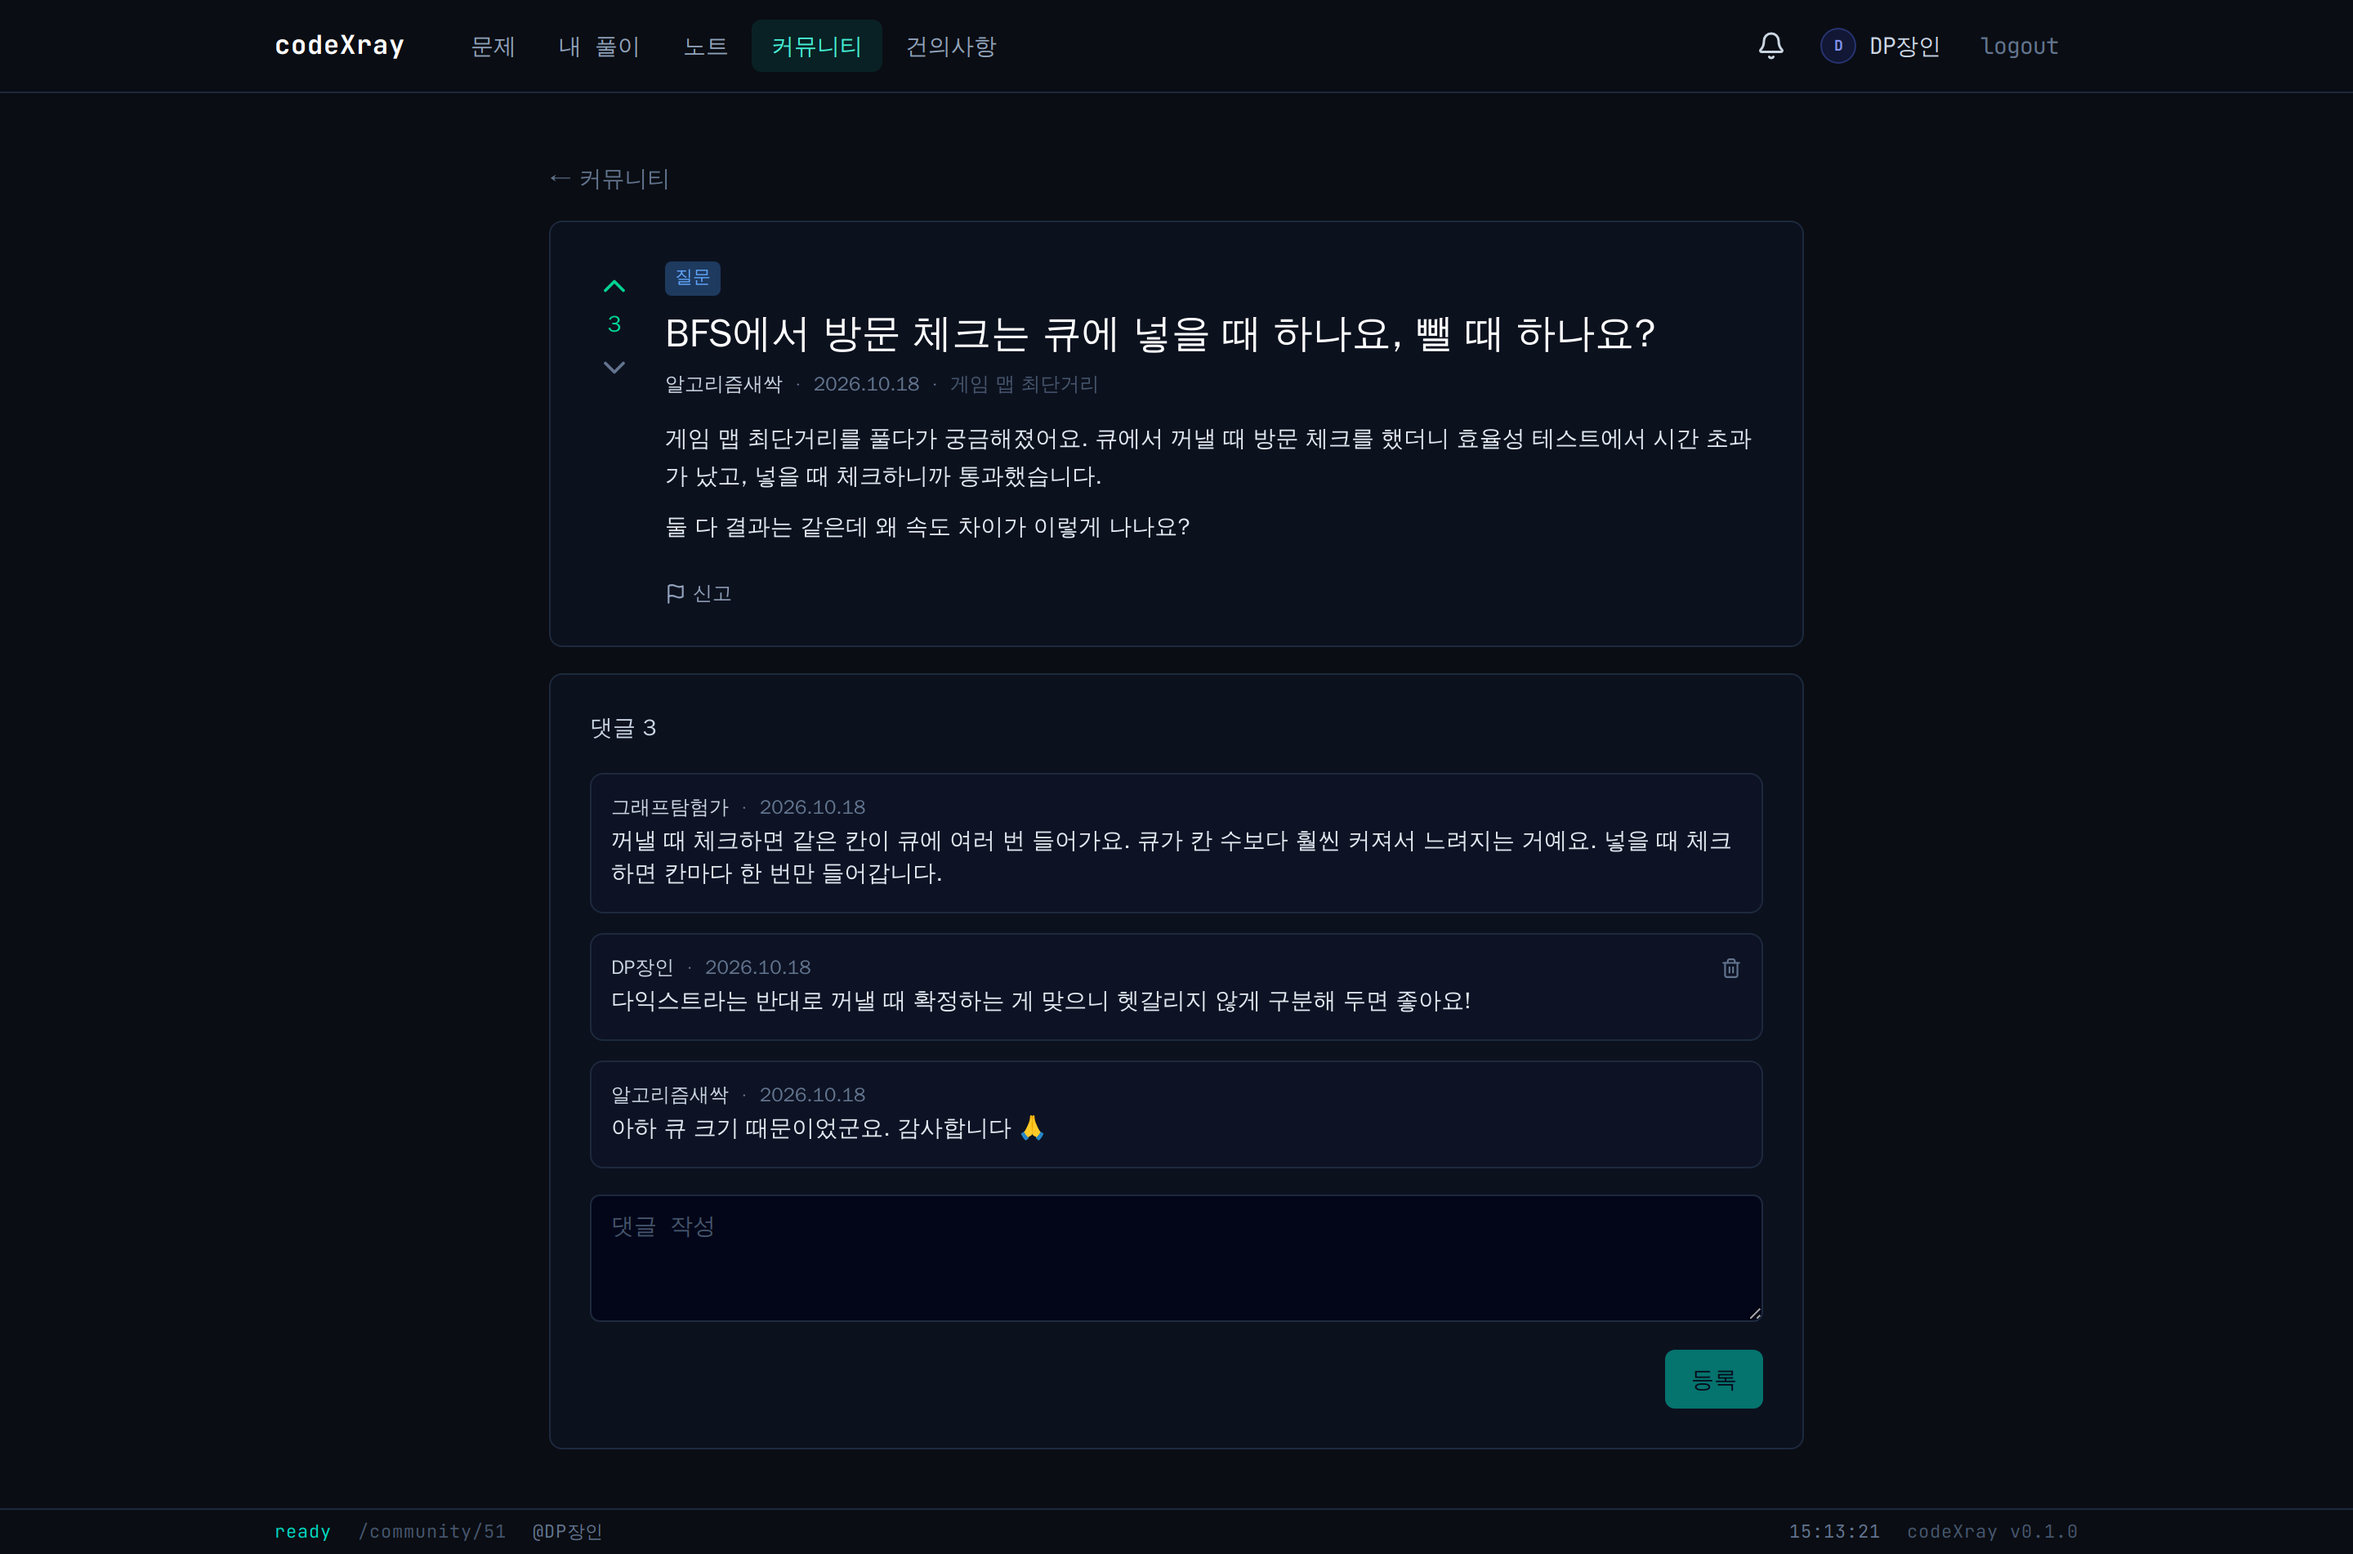
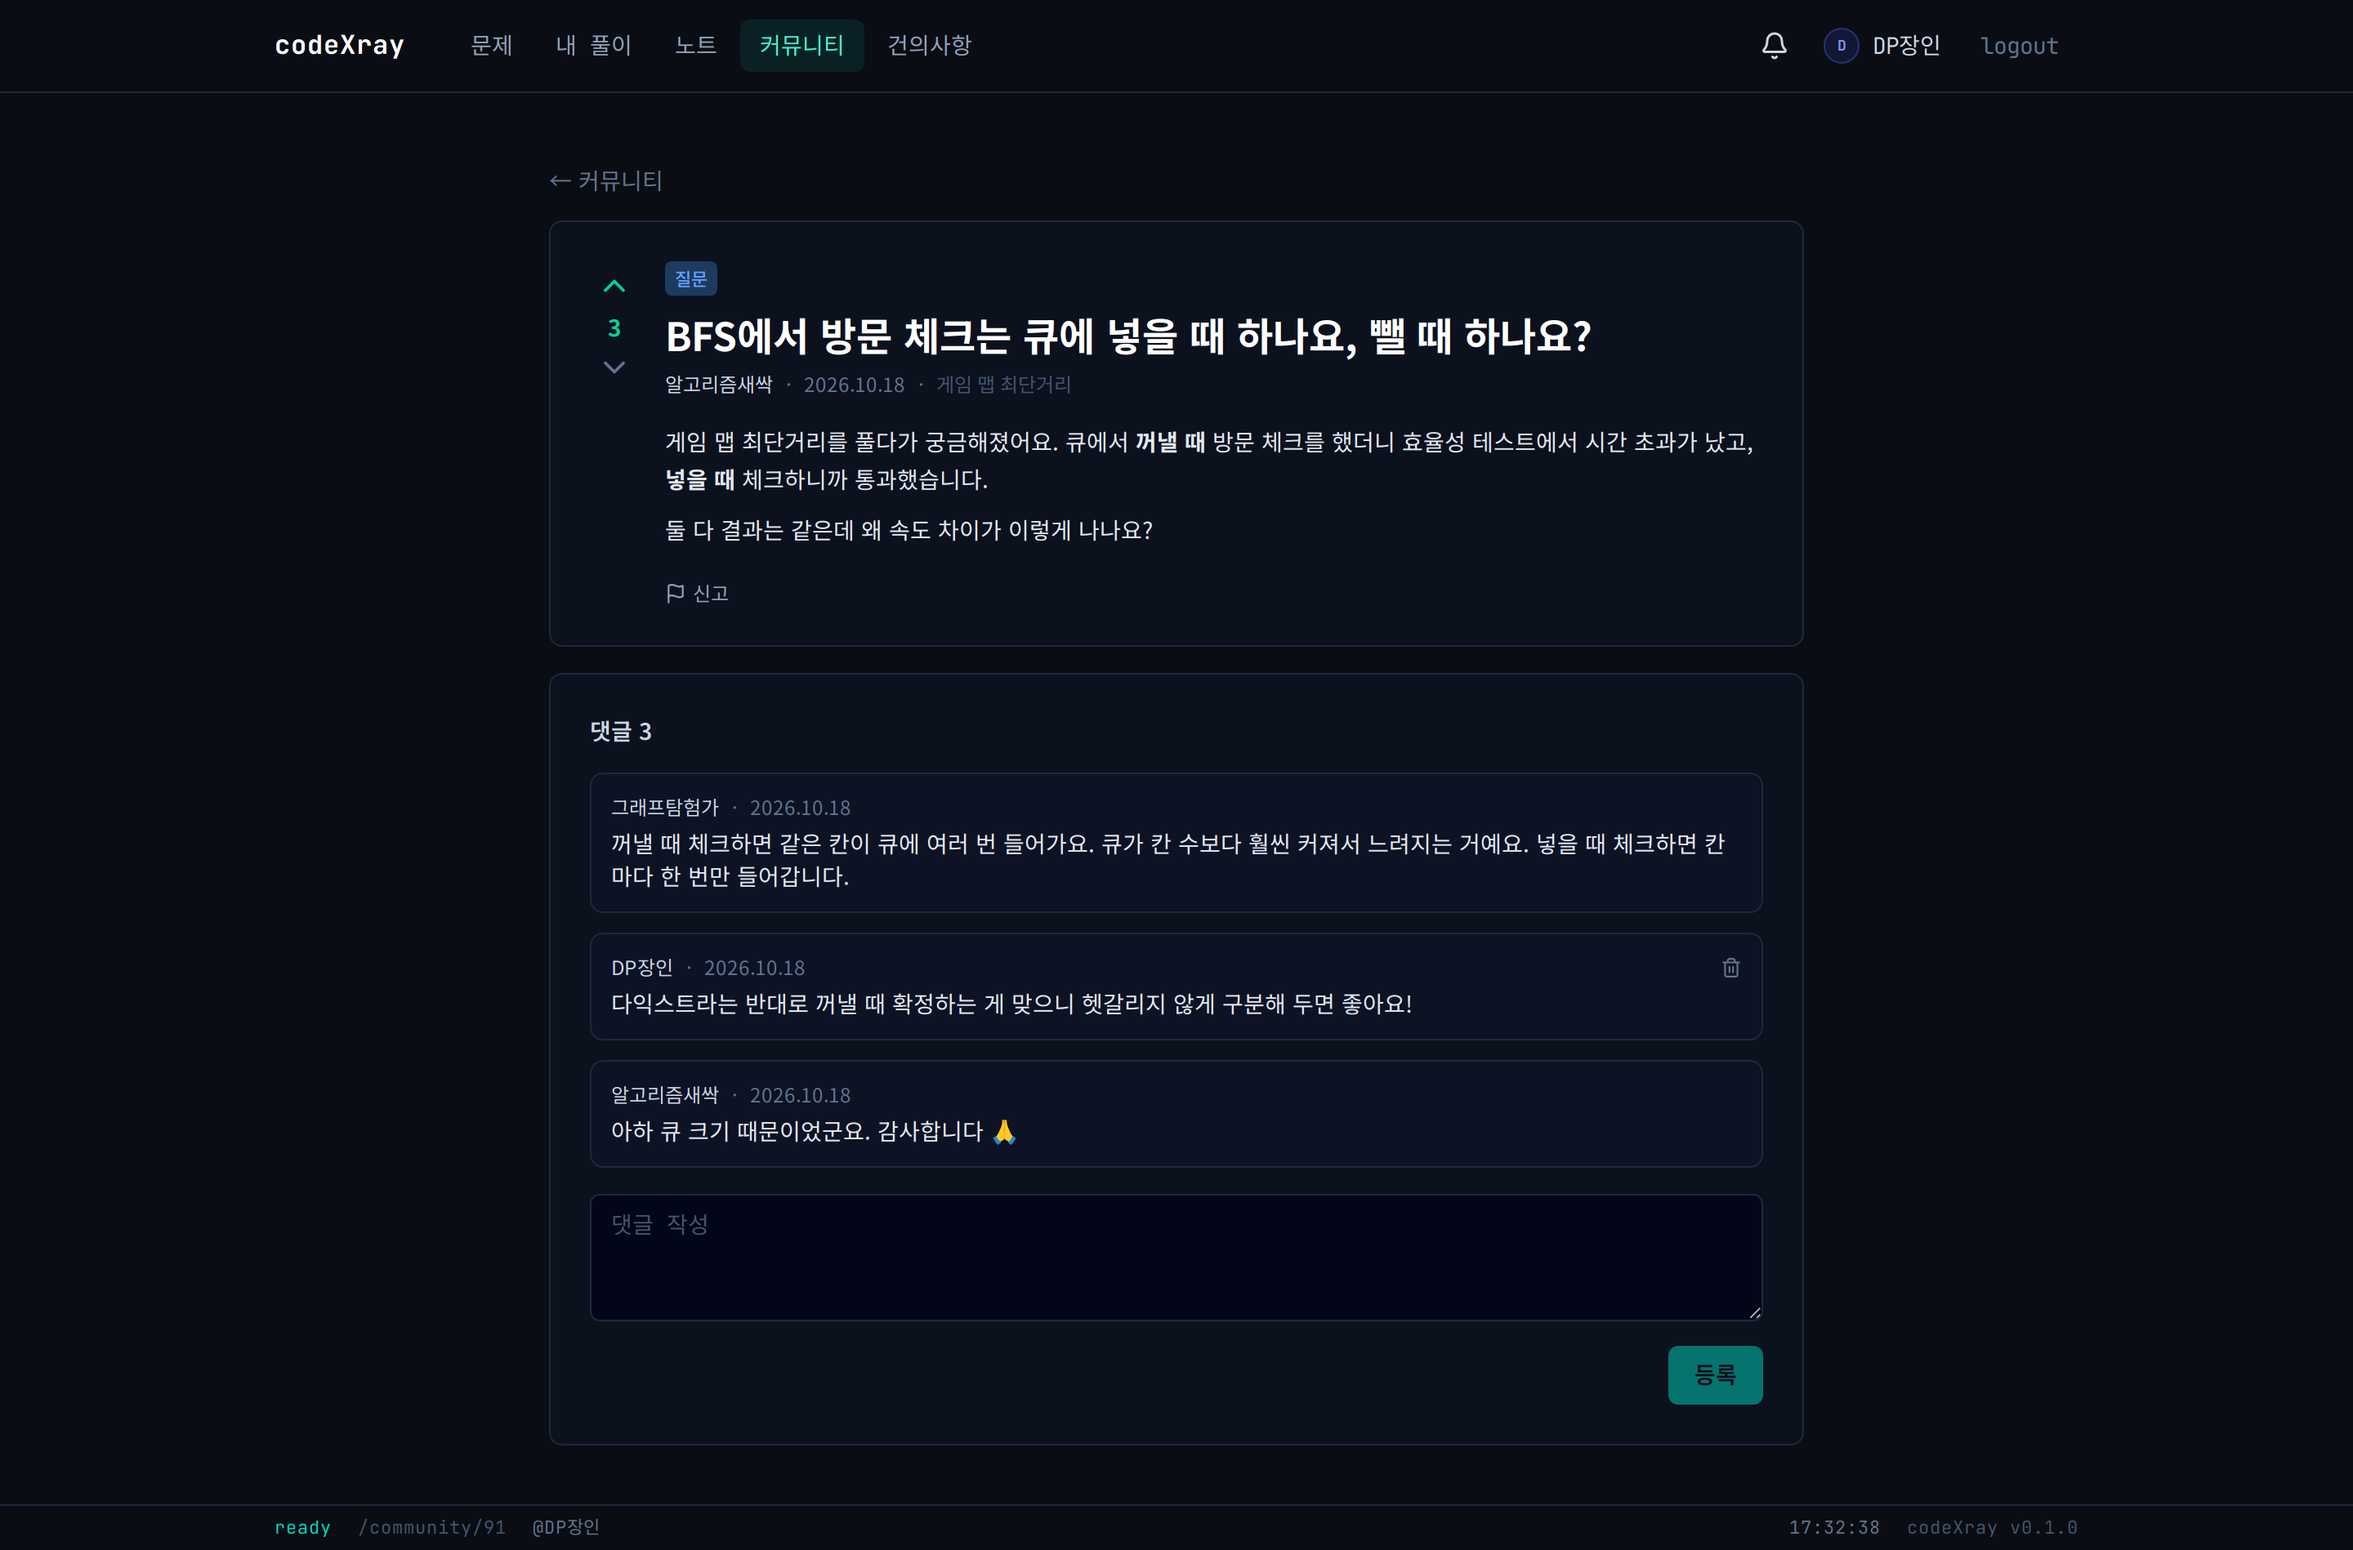
화면 캡처: 한글 굵게가 보이도록 글꼴 지정, 브라우저 확장 화면 추가
- Playwright 도커 이미지의 system-ui 는 한글을 보통 굵기만 있는 글꼴로 그려 제목·<strong> 이 굵게 안 찍혔다.
  캡처할 때만 본문 글꼴을 Noto Sans KR(앱 CSS 목록에 이미 있는 글꼴, 웹 글꼴)로 두고 01~14 를 다시 찍었다
- 운영에서 직접 찍은 브라우저 확장 화면 2장(16 저장, 17 로그인)을 README 화면 표에 추가
- capture-screens.sh 가 폴더를 통째로 지우지 않고 자기가 찍는 01~14 만 지우게(15 이후는 손으로 찍은 것)

diff --git a/README.md b/README.md
@@ -32,7 +32,7 @@ codeXray는 알고리즘 문제를 풀고, 풀이·메모·노트를 남기고, 
 
 ## 🖥 화면
 
-시연 데이터([`deploy/demo-seed.sql`](deploy/demo-seed.sql))를 넣고 [`docs/capture-screens.sh`](docs/capture-screens.sh)로 자동 캡처한 화면입니다. 화면이 바뀌면 같은 명령으로 다시 찍습니다.
+시연 데이터([`deploy/demo-seed.sql`](deploy/demo-seed.sql))를 넣고 [`docs/capture-screens.sh`](docs/capture-screens.sh)로 자동 캡처한 화면입니다. 화면이 바뀌면 같은 명령으로 다시 찍습니다. 브라우저 확장(16·17)은 운영 사이트에서 직접 찍었습니다.
 
 | | |
 |---|---|
@@ -41,6 +41,7 @@ codeXray는 알고리즘 문제를 풀고, 풀이·메모·노트를 남기고, 
 | ![풀이 상세](docs/screenshots/06-solution-detail.png) **풀이 상세** · AI 분석(풀이 설명·최적화 제안), 메모 | ![내 풀이](docs/screenshots/05-solutions.png) **내 풀이** · 별표, 메모 표시 |
 | ![노트](docs/screenshots/09-note-detail.png) **학습 노트** · 마크다운, 코드 블록 복사 | ![프로필](docs/screenshots/14-profile.png) **프로필 대시보드** · 스트릭, 티어·언어·태그 분포, 약점 태그 |
 | ![커뮤니티 글](docs/screenshots/11-community-post.png) **커뮤니티** · 질문/풀이 공유, 추천, 댓글, 신고 | ![건의사항](docs/screenshots/13-suggestion-post.png) **건의사항** · 처리 상태, 관리자 답변 |
+| ![확장 저장](docs/screenshots/16-extension-save.png) **브라우저 확장** · 프로그래머스 문제 화면의 `❯ 저장` 버튼, 원클릭 저장 | ![확장 로그인](docs/screenshots/17-extension-login.png) **확장 로그인** · 쿠키 대신 `X-Refresh-Token` 헤더로 인증 |
 
 <details>
 <summary>나머지 화면 (로그인, 노트 목록, 커뮤니티 목록, 건의사항 목록)</summary>
